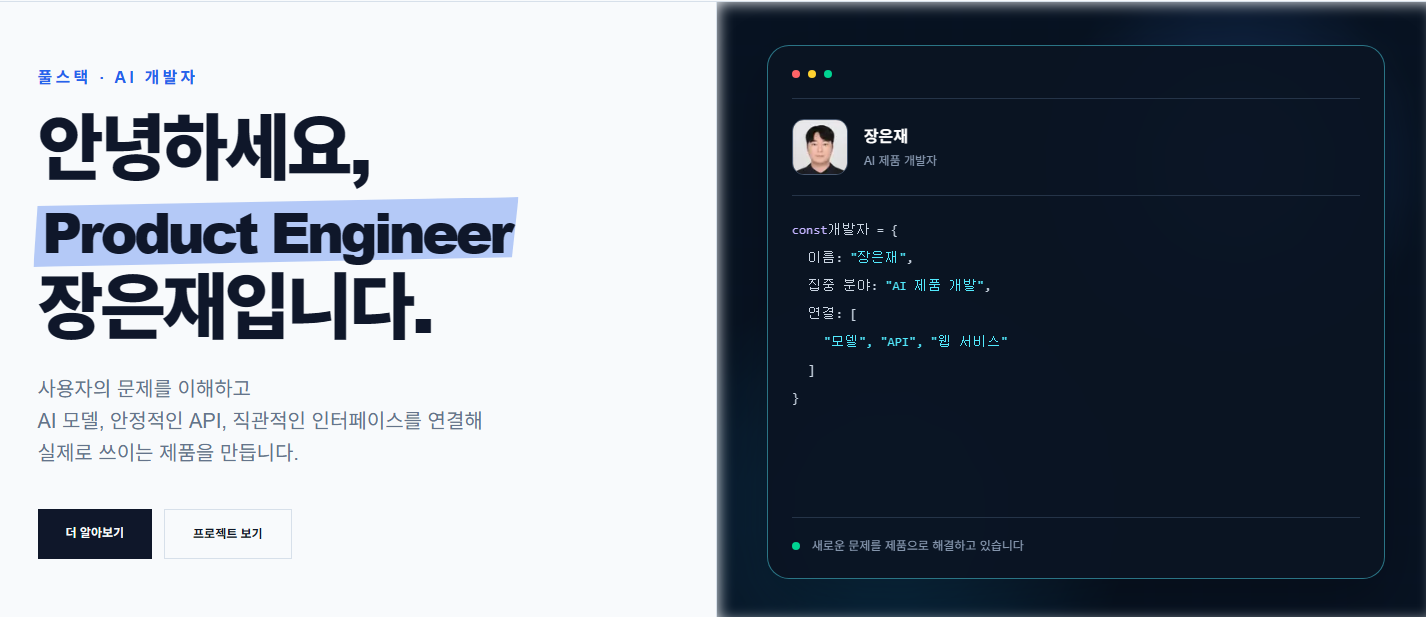
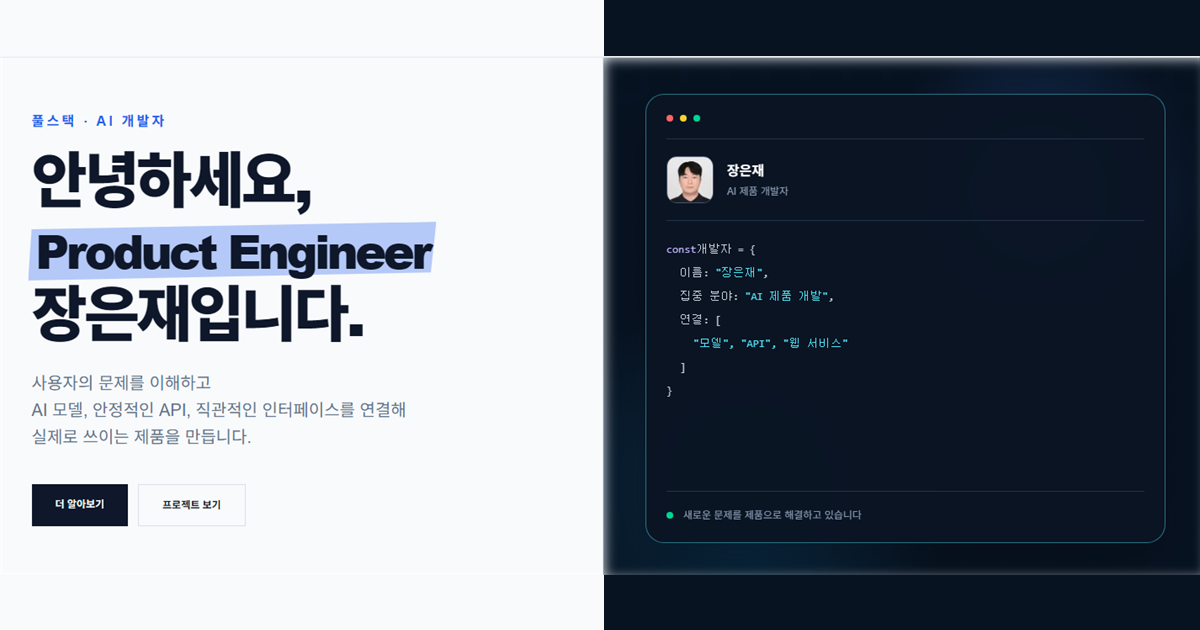
fix : opengraph image 수정 3

diff --git a/app/layout.tsx b/app/layout.tsx
@@ -37,8 +37,8 @@ export async function generateMetadata(): Promise<Metadata> {
       images: [
         {
           url: "/opengraph2.png",
-          width: 1426,
-          height: 617,
+          width: 1200,
+          height: 630,
           alt: `${introContent.profile.name} 포트폴리오 미리보기`,
         },
       ],
